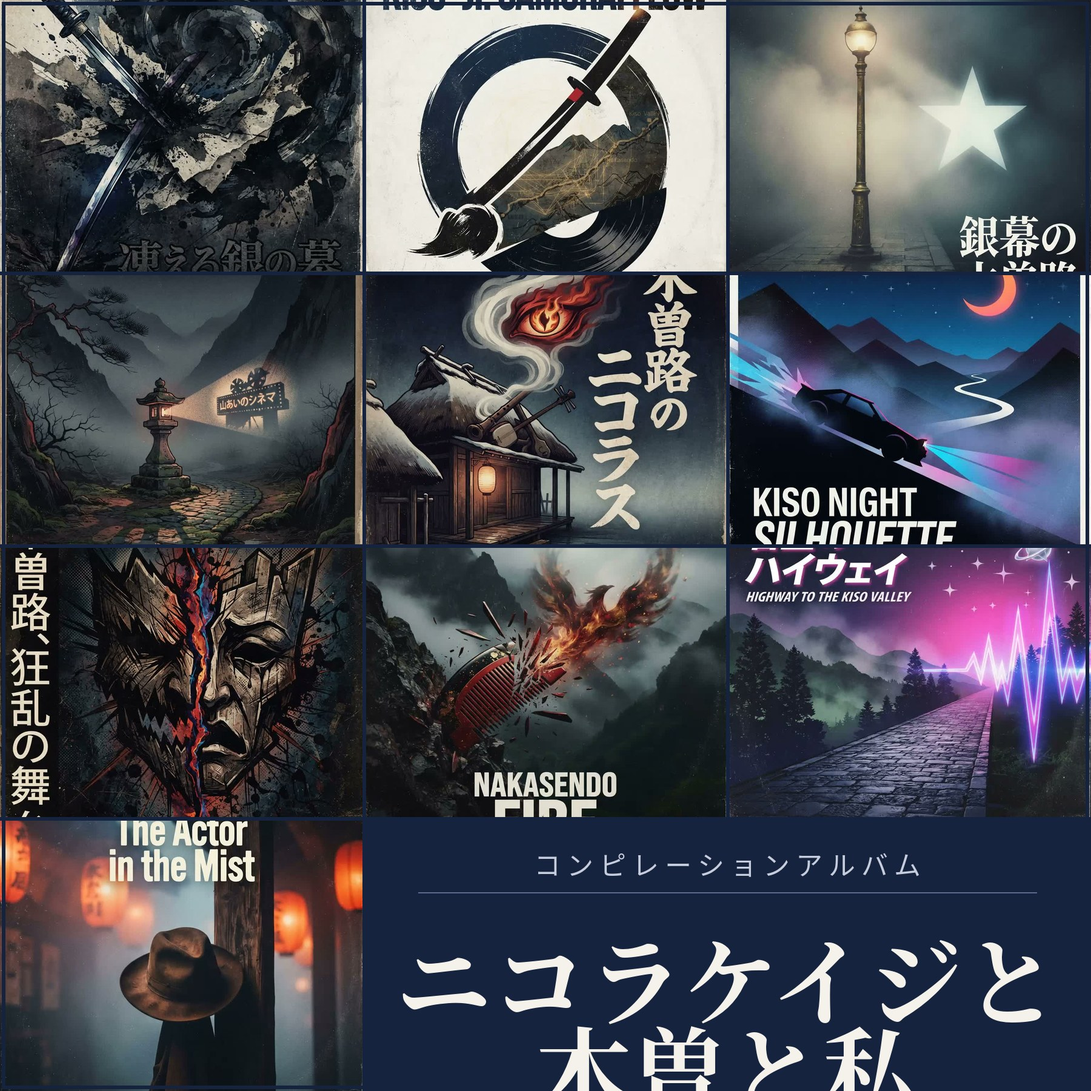
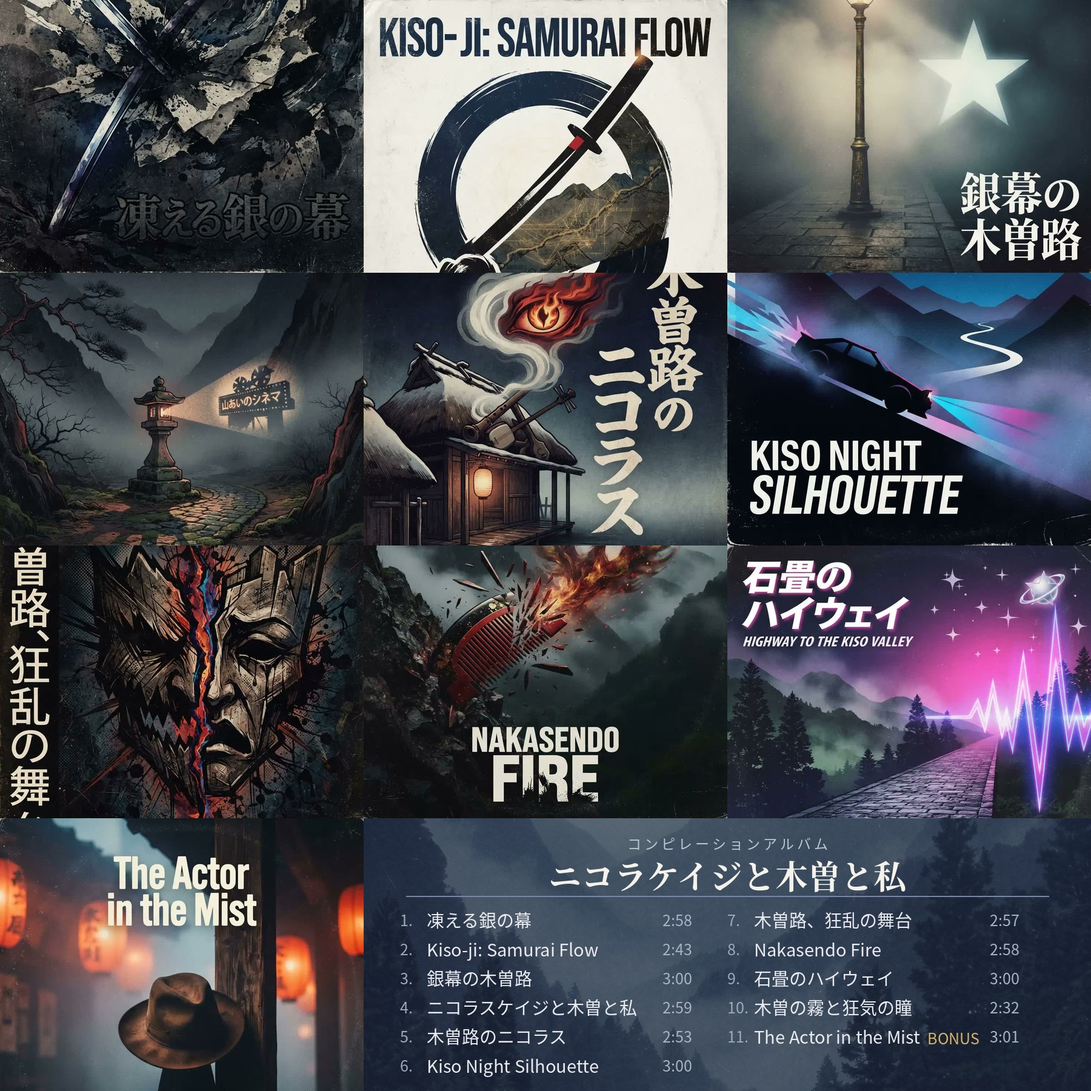
表ジャケット刷新＋裏面を3列×4段モザイク（曲目リスト印刷）に v1.1.11 (#7)
- 表: 型Aの一枚絵＋金の縦書き題字（候補A3のレイアウトで正式合成、アイコン再生成）
- 裏: 3列×4段グリッドに曲ジャケットをトリミングでみっちり配置し、最下段の空き2マスに谷を背にしたタイトル＋曲目リスト（全11曲・時間・BONUS）を印刷
- album.ts に printedBackList を追加し、裏面の重ねリストを印刷に一本化（main.ts）
- docs/PRODUCTION.md に表・裏面の共通ルールを追記

diff --git a/src/album/album.ts b/src/album/album.ts
@@ -7,6 +7,8 @@ export const ALBUM: {
   catalog: string;
   format: string;
   layout: 'album' | 'single';
+  /** 裏ジャケットに曲目リストが印刷済みなら true（裏面の重ねリストを表示しない） */
+  printedBackList?: boolean;
 } = {
   /** アルバムの題名 */
   title: 'ニコラケイジと木曽と私',
@@ -16,6 +18,7 @@ export const ALBUM: {
   format: 'デジタルCDアルバム',
   /** 形: 'album'（正方形ジャケット＋ブックレット） / 'single'（短冊型ジャケット＋裏面ノート、ブックレットなし） */
   layout: 'album',
+  printedBackList: true,
 };
 
 /** 裏ジャケット下部の表記（例: NK-001 ／ デジタルCDアルバム） */

diff --git a/src/main.ts b/src/main.ts
@@ -138,7 +138,12 @@ function buildTracklist(el: HTMLElement | null, jump: boolean): void {
   });
 }
 buildTracklist($('#tracklist'), true);
-buildTracklist($('#tracklist2'), false);
+if (ALBUM.printedBackList) {
+  // 裏ジャケットに曲目リストが印刷済みの作品では、裏面の重ねリストは出さない（印刷に一本化）
+  document.querySelector('#tracklist2')?.remove();
+} else {
+  buildTracklist($('#tracklist2'), false);
+}
 $('#bc-foot').textContent = FOOT_NOTE;
 
 /* ---------- ジャケットの反転（表⇔裏） ---------- */

diff --git a/docs/PRODUCTION.md b/docs/PRODUCTION.md
@@ -51,3 +51,19 @@
 
 - 公開済みのアルバムは、それぞれ独立したリポジトリとアプリ ID を持つ。エンジン側の直しは公開済みの作品に自動では効かない（作品が壊れないための割り切り）。同じ直しを複数作に当てるときは、各リポジトリに同じ変更を入れる。
 - Netlify は使わない（サウンド単行本の納品枠を温存する決まり）。
+
+## 表ジャケットと裏面のルール（2026-11-05 オーナー決定、NK-001 で確立）
+
+### 表ジャケット
+- 題材はライナーノーツの世界観から決める。生成絵に文字は描き込まず、タイトルは後付けで合成する。
+- タイトルの配置は、ホーム画面アイコン（角丸・円形マスク・小サイズ表示）で欠けない範囲に収める。アイコンプレビューで先に確認する。
+
+### 裏面（曲ジャケットのモザイク。シングル裏面の「2曲結合＋クロスフェード」とは別形式のルール）
+- **グリッドは曲数で判断する**：〜9曲＝3列×3段（1マス 600×600）、10〜12曲＝3列×4段（600×450）か 4列×3段（450×600）、13〜16曲＝4列×4段（450×450）。12マスの2形式は、曲絵の構図（上下を切るか左右を切るか）で選ぶ。
+- **マスが余ったら、最下段側の余りマスをタイトル面が埋める**。タイトルだけは例外で、余った面積を埋めるサイズにする。
+- **駒は曲の絵だけ**。曲でない絵（背景用の風景画など）は駒として入れない。ただしタイトル面の背景に使うのは可（作品の背景絵＋半透明の暗幕で文字を立てる）。
+- 各曲の絵は**判型いっぱいにトリミング**して入れる。縮小して全体を見せる方式（自分の絵のぼかし背景つき）はしない。結果として**曲タイトルが切れてもよい**。
+- マス同士は**隙間なくみっちり突き合わせる**。溝（ガター）もフェードも入れない。
+- 曲ジャケットに焼き込まれた白枠・紙枠は、**輝度プロファイルで深さを実測して切り落とす**（例：右30px・上15px）。再生画面の曲画像は元のまま使う。
+- **曲目リストは裏面に印刷として入れる**（全曲・曲順どおり・時間入り、ボーナストラックは BONUS 表記、絵のない曲もリストには載せる）。表示専用で、ここからジャンプはさせない。印刷した作品は `album.ts` の `printedBackList` を true にして、アプリ側の重ねリストと一本化する。
+- 例外：絵が作品の世界観に合わない曲は、オーナー判断でコラージュから外してよい（曲目リストには載せる）。
